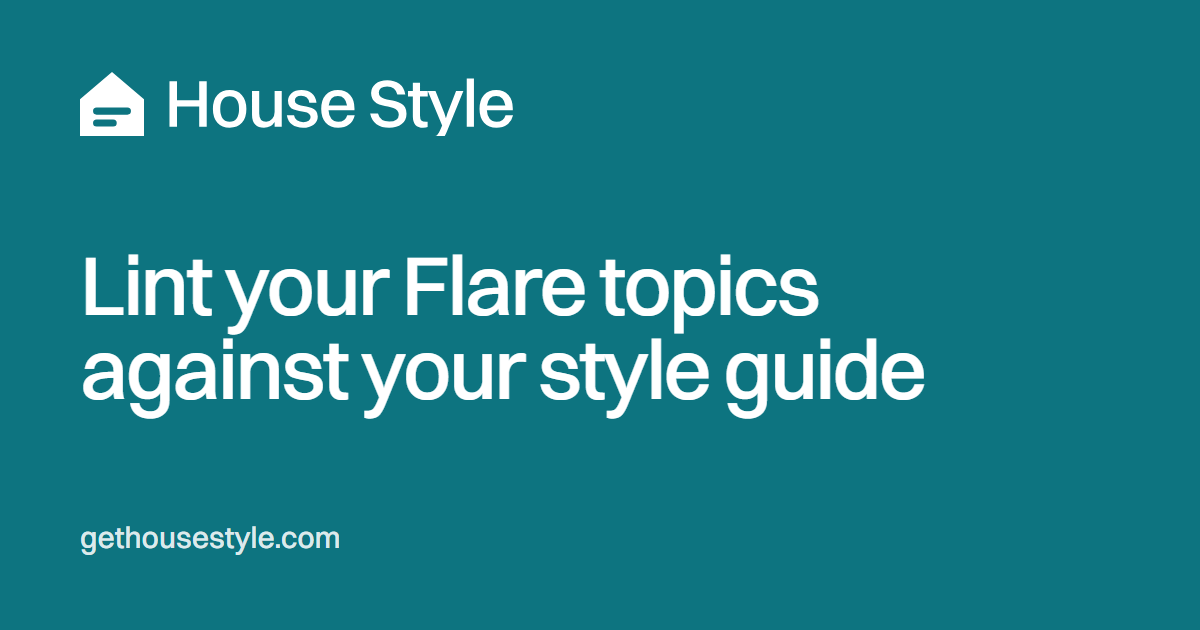
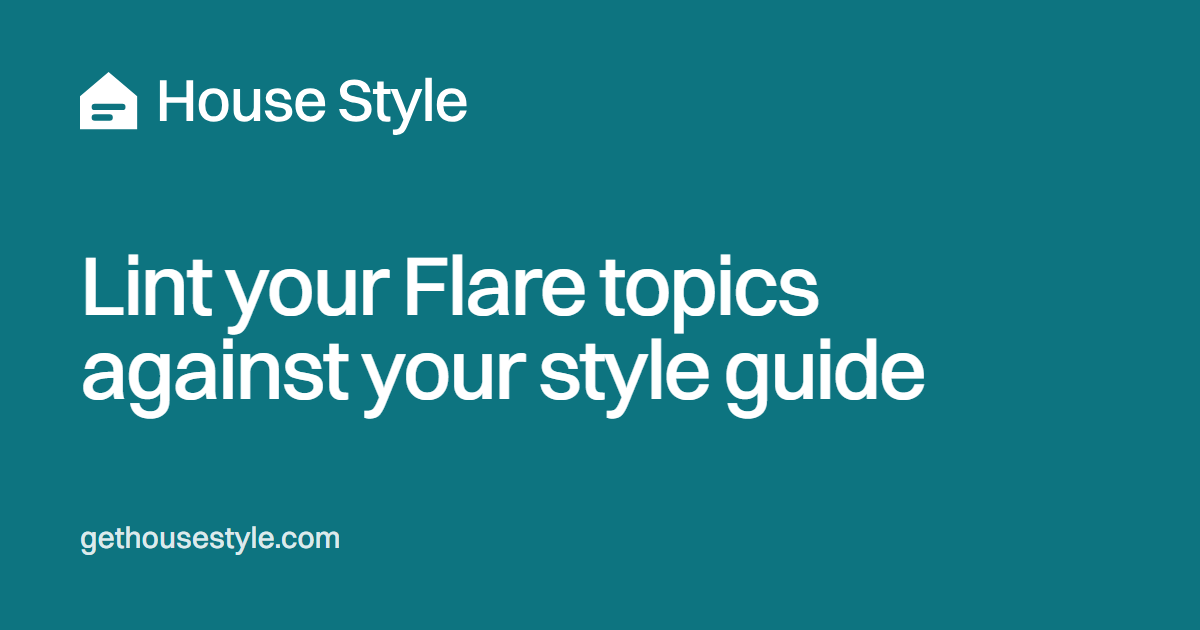
Brand: keep the y descender in the lockup, tidy guide nav and brand README copy
- lockup_svg extends its viewBox to the font's descent, so the y in Style is no longer clipped
  in lockup.svg, lockup-white.svg and og.png.
- Guide pages hide the current User guide link on phones, so the nav fits at 375 px.
- Brand README table no longer joins clauses with colons.

Refs #216

Changed region(s): [[0.0617, 0.1206, 0.4317, 0.2413]]

diff --git a/scripts/build-brand.py b/scripts/build-brand.py
@@ -31,7 +31,7 @@ def favicon_svg(rx=14):
             f'<path fill="#fff" fill-rule="evenodd" transform="translate(9.6 9.6) scale(.7)" d="{MARK_D}"/></svg>\n')
 
 def wordmark_paths(text, size):
-    """Outlines `text` in Switzer 500 at font size `size`, baseline at y=0. Returns (path d, width, cap height)."""
+    """Outlines `text` in Switzer 500 at font size `size`, baseline at y=0. Returns (path d, width, cap height, descent below the baseline)."""
     font = TTFont(REPO / "site" / "fonts" / "switzer-500.woff2")
     gs, cmap, upm = font.getGlyphSet(), font.getBestCmap(), font["head"].unitsPerEm
     s = size / upm
@@ -43,18 +43,19 @@ def wordmark_paths(text, size):
         gs[name].draw(TransformPen(pen, (s, 0, 0, -s, x * s, 0)))
         x += gs[name].width + tracking
     cap = font["OS/2"].sCapHeight * s
-    return pen.getCommands(), (x - tracking) * s, cap
+    return pen.getCommands(), (x - tracking) * s, cap, -font["hhea"].descent * s
 
 def lockup_svg(mark_fill, text_fill):
-    d, w, cap = wordmark_paths("House Style", 100)
+    d, w, cap, desc = wordmark_paths("House Style", 100)
     mh = cap * 1.4                       # mark drawn height is 1.4x the cap height
     k = mh / (MARK_BOTTOM - MARK_TOP)
     gap = cap * 0.45
     mark_w = 54 * k                      # mark spans x 5..59
     total = mark_w + gap + w
     top = -cap - (mh - cap) / 2          # centre the mark on the caps
+    height = max(mh, desc - top)         # room for the descender of the "y"
     return ('<svg xmlns="http://www.w3.org/2000/svg" '
-            f'viewBox="0 {top:.1f} {total:.1f} {mh:.1f}">'
+            f'viewBox="0 {top:.1f} {total:.1f} {height:.1f}">'
             f'<path fill="{mark_fill}" fill-rule="evenodd" transform="translate({-5*k:.2f} {top - MARK_TOP*k:.2f}) scale({k:.4f})" d="{MARK_D}"/>'
             f'<path fill="{text_fill}" transform="translate({mark_w + gap:.2f} 0)" d="{d}"/></svg>\n')
 

diff --git a/scripts/build-guide.py b/scripts/build-guide.py
@@ -36,7 +36,7 @@ PAGE = """<!doctype html>
   <div class="wrap">
     <a class="wordmark" href="../" aria-label="House Style home"><svg viewBox="0 0 64 64" aria-hidden="true" focusable="false"><path fill-rule="evenodd" d="M32 5 59 28v31H5V28zM19 35a3 3 0 0 0 0 6h26a3 3 0 0 0 0-6zM19 45a3 3 0 0 0 0 6h14a3 3 0 0 0 0-6z"/></svg>House Style</a>
     <nav class="site-nav" aria-label="Main">
-      <a href="./" aria-current="page">User guide</a>
+      <a class="hide-sm" href="./" aria-current="page">User guide</a>
       <a href="../install.html">Install</a>
       <a class="hide-sm" href="../privacy.html">Privacy</a>
       <a class="hide-sm" href="https://github.com/abmorrill4/house-style">GitHub</a>

diff --git a/site/brand/README.md b/site/brand/README.md
@@ -5,8 +5,8 @@ the files.
 
 | File | Use it for |
 |---|---|
-| `lockup.svg` | The logo on light backgrounds: the teal mark and the wordmark |
-| `lockup-white.svg` | The logo on teal or dark backgrounds |
+| `lockup.svg` | The teal mark and dark wordmark, for light backgrounds |
+| `lockup-white.svg` | The all-white logo, for teal or dark backgrounds |
 | `mark.svg`, `mark-ink.svg`, `mark-white.svg` | The mark alone, in small spaces |
 | `../favicon.svg`, `../favicon.ico`, `../apple-touch-icon.png` | Browser and home-screen icons |
 | `../og.png` | The image shown when someone shares a link to the site |
